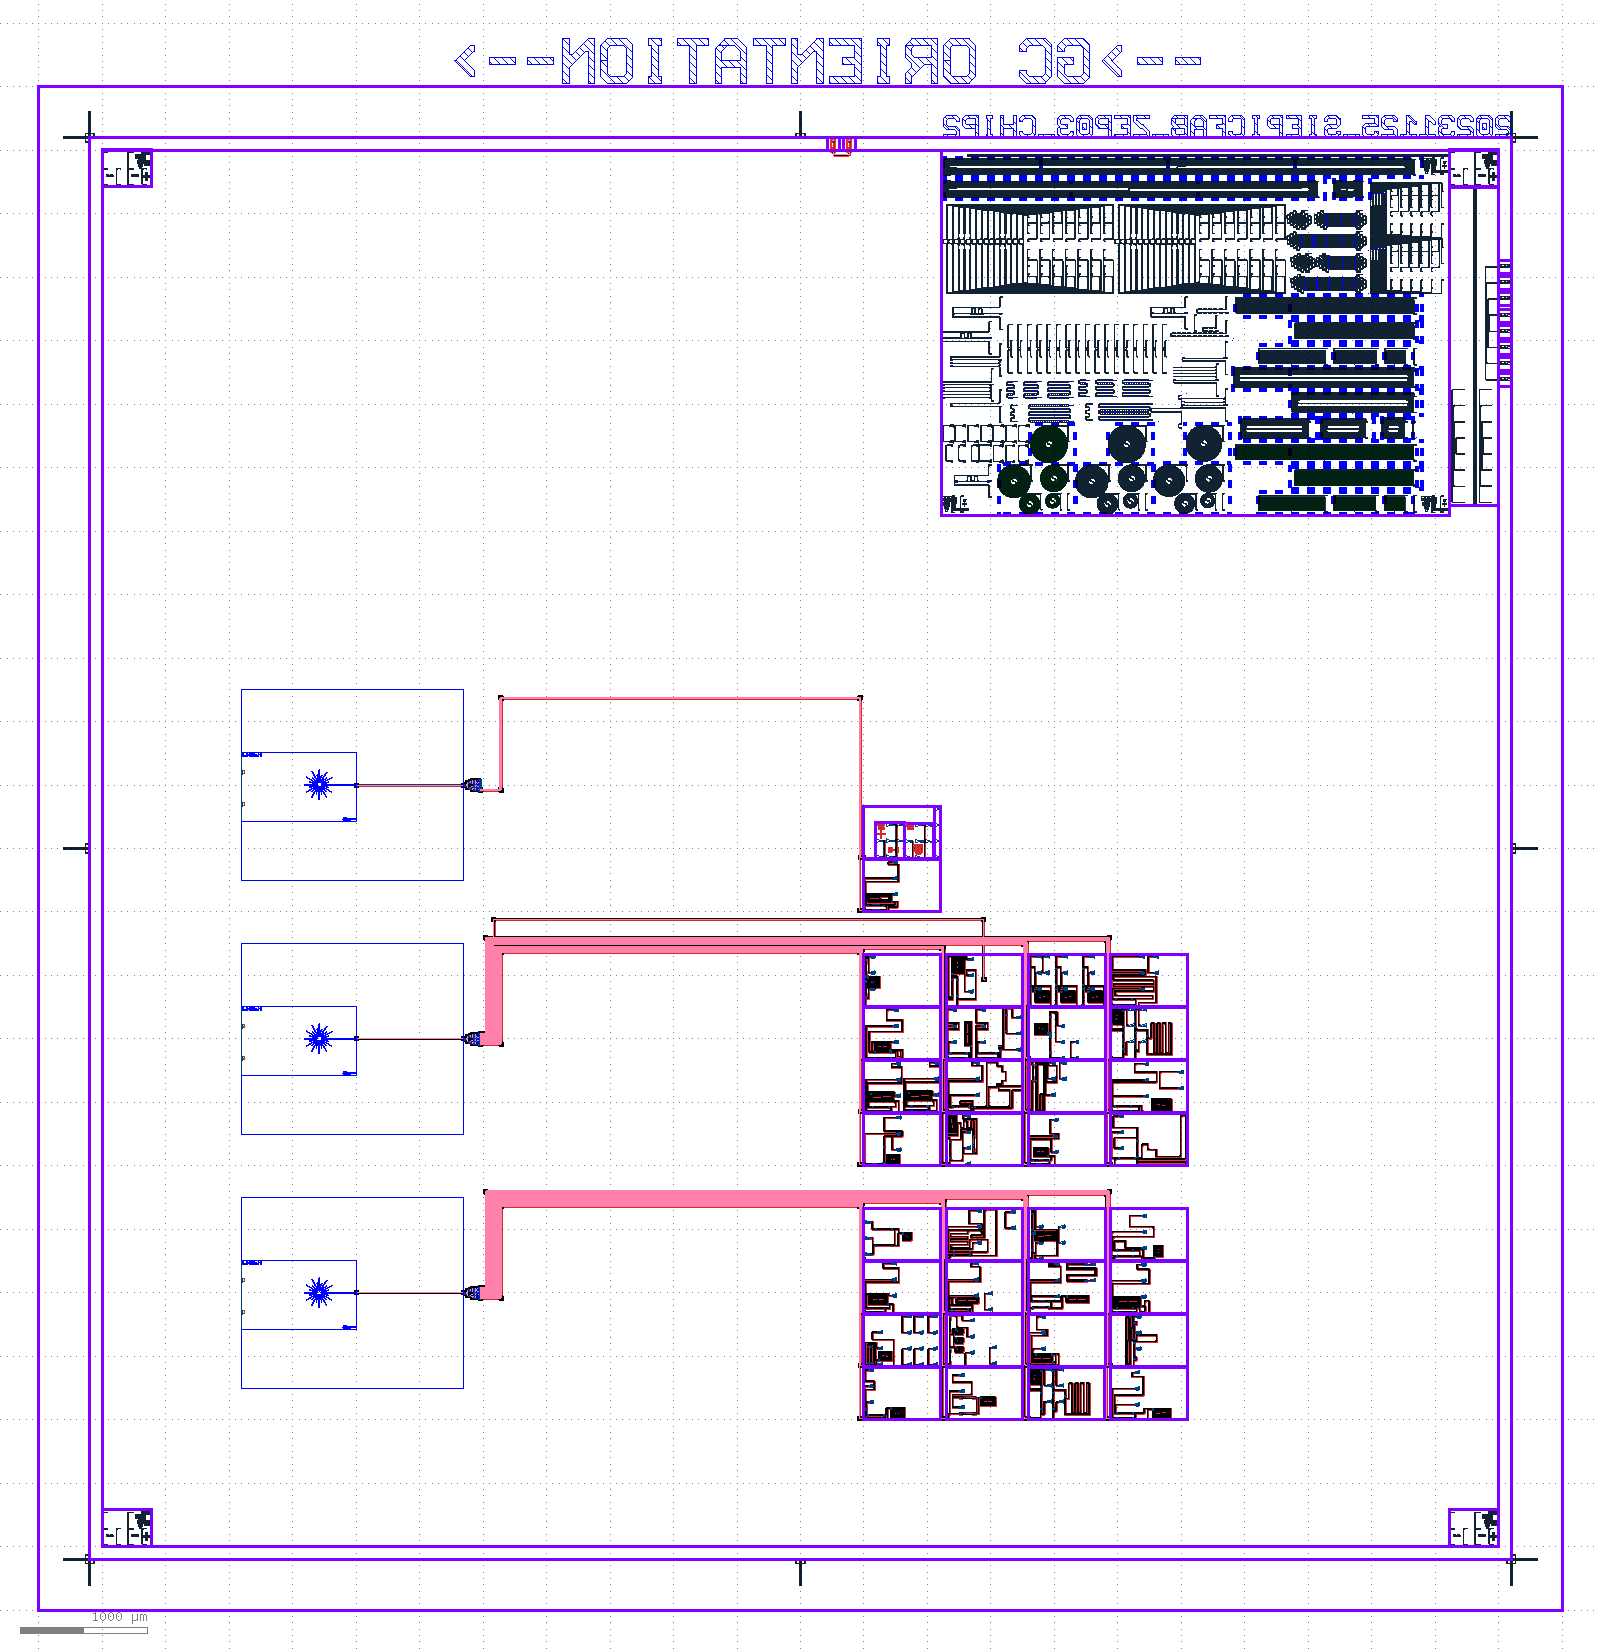
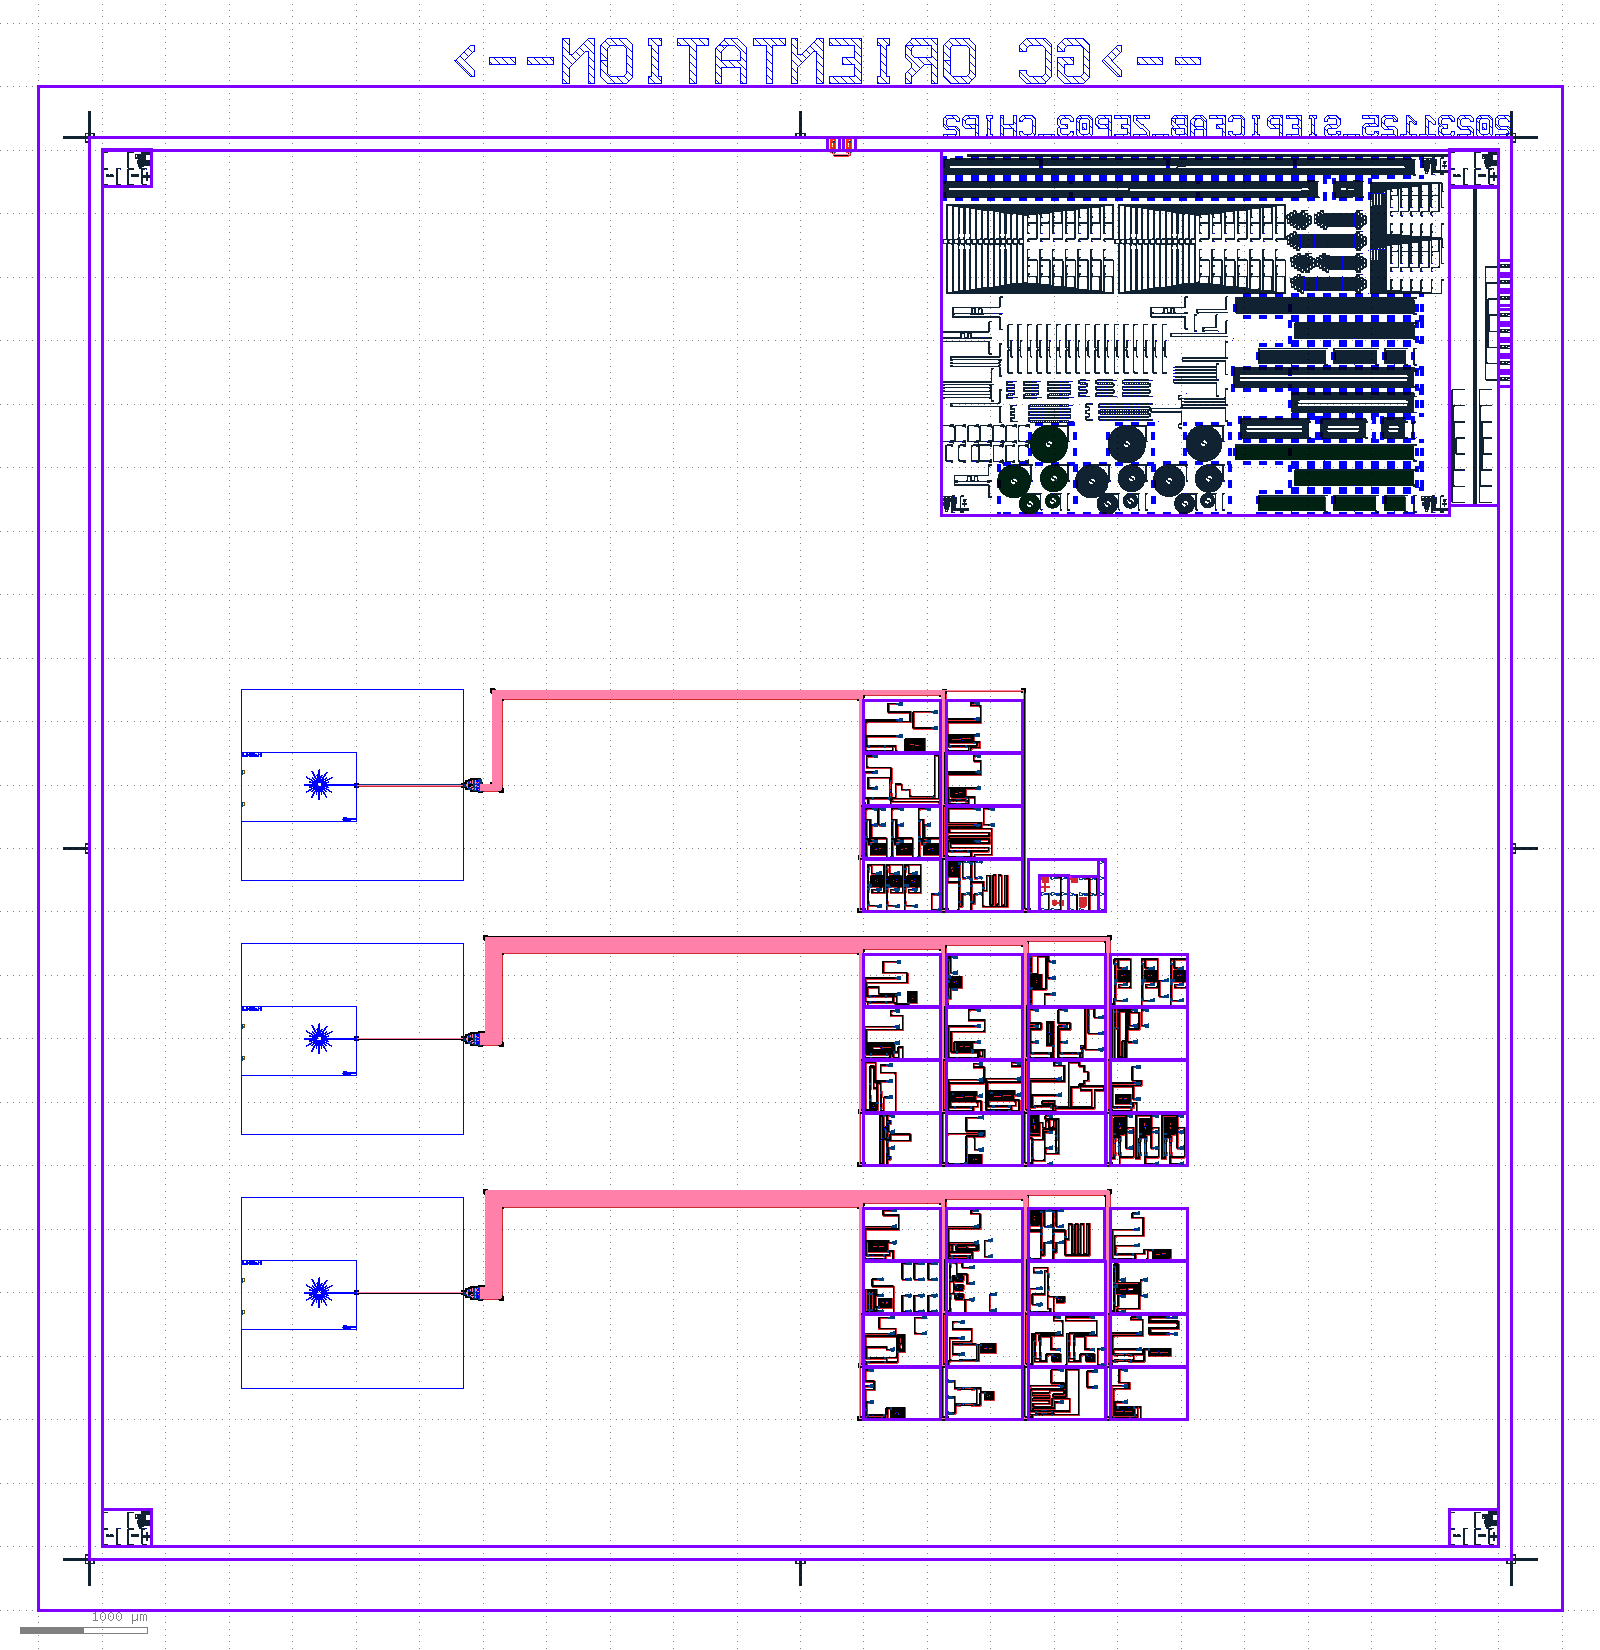
Aggregated layout: https://github.com/SiEPIC/UBC-ELEC413-2025/actions/runs/13281233534/artifacts/2577069414

Changed region(s): [[0.3125, 0.4018, 0.75, 0.7109], [0.5312, 0.7418, 0.75, 0.8655], [0.2812, 0.4327, 0.3125, 0.4636]]

diff --git a/README.md b/README.md
@@ -65,5 +65,5 @@ The verification and merging is performed using GitHub actions. The repository i
 
 Click on the following link to download the EBeam.oas merged layout file:
 <!-- start-link -->
-https://github.com/SiEPIC/UBC-ELEC413-2025/actions/runs/13255660719/artifacts/2569153623
+https://github.com/SiEPIC/UBC-ELEC413-2025/actions/runs/13281233534/artifacts/2577069414
 <!-- end-link -->
